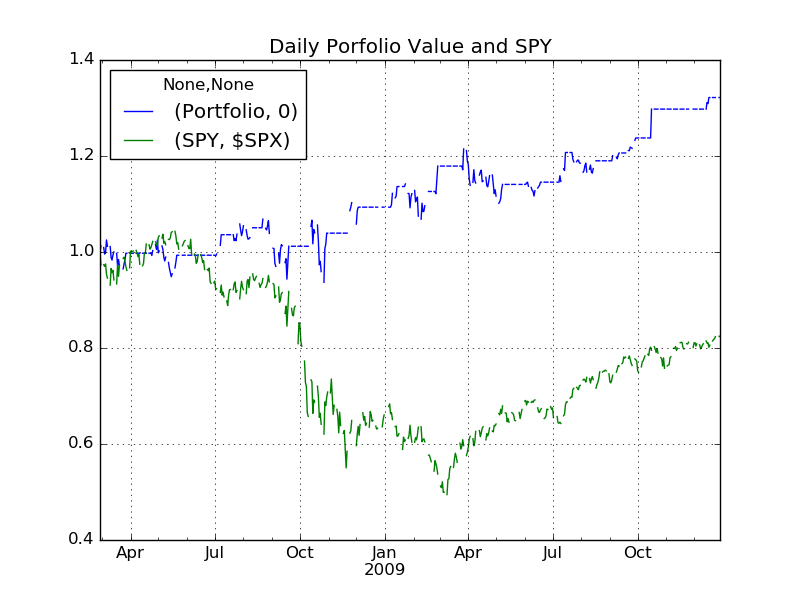
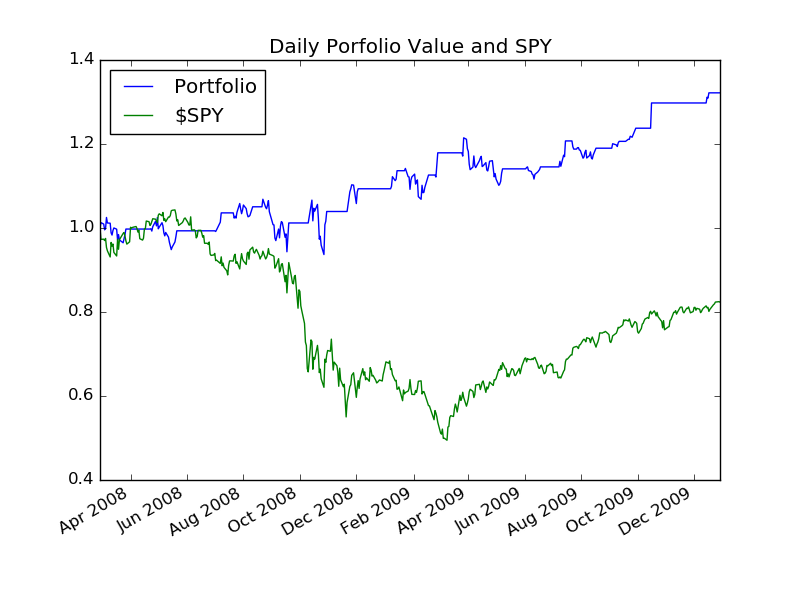
removed weekends from comparison chart

diff --git a/mc2_p2/marketsim.py b/mc2_p2/marketsim.py
@@ -143,8 +143,10 @@ def sims_output(sv=1000000, of= "./output/orders.csv", gen_plot=True):
 
     if gen_plot:
         #Plots comparison between IBM and $SPY
-        df_temp = pd.concat([portval_norm, prices_SPY_norm], keys=['Portfolio', 'SPY'], axis=1)
-        ax = df_temp.plot(title = 'Daily Porfolio Value and SPY', grid=True)
+        df_temp = pd.concat([portval_norm, prices_SPY_norm], keys=['Portfolio', '$SPY'], axis=1)
+        df_temp.dropna(inplace=True)
+        ax = df_temp.plot(title = 'Daily Porfolio Value and SPY', grid=False)
+        ax.legend(loc='upper left', labels=['Portfolio', '$SPY'])
         fig = ax.get_figure()
         fig.savefig('output/comparison_chart.png')
 
